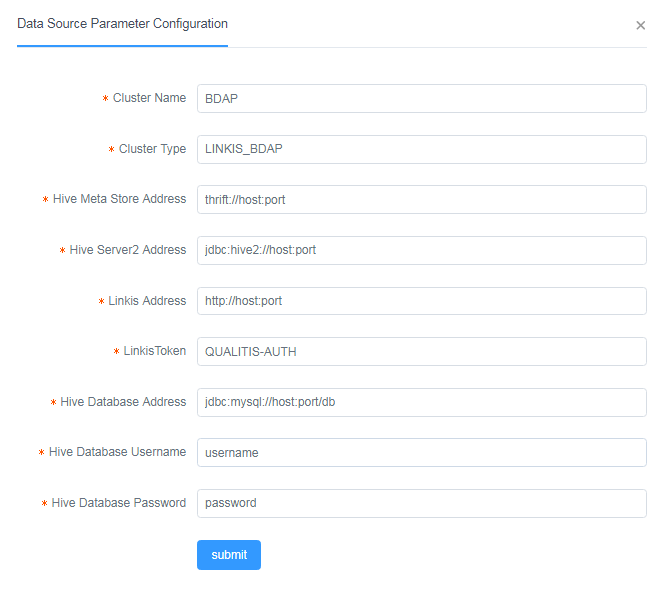
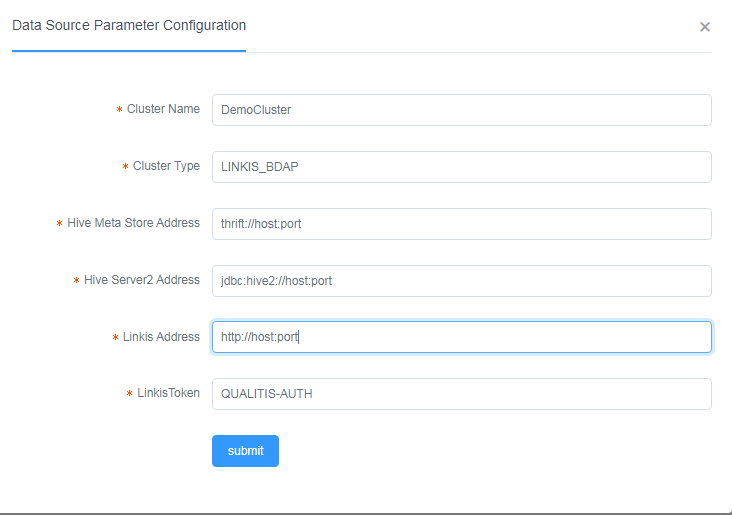
update document，add access function to linkis

diff --git a/docs/zh_CN/ch1/快速搭建手册.md b/docs/zh_CN/ch1/快速搭建手册.md
@@ -7,8 +7,8 @@ JDK (1.8.0_141)
 Hadoop (2.7.2)  
 Hive (1.2.1)   
 Zookeeper (3.4.9)  
-Linkis（0.9.0), 必装Spark引擎。[如何安装Linkis](https://github.com/WeBankFinTech/Linkis)  
-DataSphereStudio (0.5.0) 可选. 如果你想使用工作流，必装DataSphereStudio [如何安装DataSphereStudio?](https://github.com/WeBankFinTech/DataSphereStudio)  
+Linkis（0.9.1), 必装Spark引擎。[如何安装Linkis](https://github.com/WeBankFinTech/Linkis)  
+DataSphereStudio (0.6.0) 可选. 如果你想使用工作流，必装DataSphereStudio [如何安装DataSphereStudio?](https://github.com/WeBankFinTech/DataSphereStudio)  
 
 ## 二、安装包下载
 [下载](https://github.com/WeBankFinTech/Qualitis/releases)
@@ -83,10 +83,7 @@ sh bin/start.sh
 HiveMetaStore地址  
 HiveServer2地址  
 Linkis地址  
-Linkis Token  
-Hive数据库地址(用于连接HiveMetaStore的MySQL数据库)  
-Hive数据库用户名(用于连接HiveMetaStore的MySQL数据库)  
-Hive数据库密码(用于连接HiveMetaStore的MySQL数据库)  
+Linkis Token(Linkis Token配置方式请查看文档：[接入Linkis文档](接入Linkis文档.md))  
 
 可参考以下例子：
 ![](../../../images/zh_CN/ch1/规则配置样例.png)

diff --git a/docs/en_US/ch1/QuickDeploy.md b/docs/en_US/ch1/QuickDeploy.md
@@ -7,8 +7,8 @@ JDK (1.8.0_141)
 Hadoop (2.7.2)  
 Hive (1.2.1)   
 Zookeeper (3.4.9)  
-Linkis (0.9.0), Spark engine required.[How to install Linkis?](https://github.com/WeBankFinTech/Linkis)  
-DataSphereStudio (0.5.0) Optional. If you want to use workflow, it it required. [How to install DataSphereStudio?](https://github.com/WeBankFinTech/DataSphereStudio)  
+Linkis (0.9.1), Spark engine required.[How to install Linkis?](https://github.com/WeBankFinTech/Linkis)  
+DataSphereStudio (0.6.0) Optional. If you want to use workflow, it it required. [How to install DataSphereStudio?](https://github.com/WeBankFinTech/DataSphereStudio)  
 
 ## 2. Download
 [Download](https://github.com/WeBankFinTech/Qualitis/releases)
@@ -83,10 +83,7 @@ Cluster type
 HiveMetaStore address  
 HiveServer2 address  
 Linkis address  
-Linkis Token  
-Hive database address  
-Hive database username  
-Hive database password
+Linkis Token(How to get Linkis Token：[Linkis Access Guide](Linkis Access Guide.md))  
 
 Here is an example:  
 ![](../../../images/en_US/ch1/ClusterConfigurationDemo.png)

diff --git a/README.md b/README.md
@@ -3,7 +3,7 @@
 English | [中文](docs/zh_CN/ch1)  
 
 ## Overview
-Qualitis is a one-stop data quality management platform that supports quality verification, notification, and management for various datasource. It is used to solve various data quality problems caused by data processing.
+Qualitis is a data quality management platform that supports quality verification, notification, and management for various datasource. It is used to solve various data quality problems caused by data processing.
 
 Based on Spring Boot, Qualitis submits quality model task to [Linkis](https://github.com/WeBankFinTech/Linkis) platform. It provides functions such as data quality model construction, data quality model execution, data quality verification, reports of data quality generation and so on.
 

diff --git a/docs/en_US/ch1/Linkis Access Guide.md b/docs/en_US/ch1/Linkis Access Guide.md
@@ -1,0 +1,31 @@
+# How to get Linkis Token
+
+## Linkis Configuration
+### Add Linkis Token
+```
+cd $LINKIS_HOME/linkis-gateway/conf
+vim token.properties
+```
+
+Add line as follow:
+```
+QUALITIS-AUTH=*
+```
+
+### Modify Linkis Default Queue of User
+1. Login in DataSphere Studio using the user same as qualitis.
+
+2. Enter 'Linkis Console' -> Settings -> wds.linkis.yarnqueue, and then set a queue in yarn.
+
+### Add Lib of MySQL
+```
+cd $LINKIS_HOME/linkis-ujes-spark-enginemanager/lib
+```
+Add MySQL Lib in it.
+
+At last, restart Linkis.
+
+## Qualitis Configuration
+Type in 'QUALITIS-AUTH' in the blank of Linkis Token:  
+Here is an example：  
+![](../../../images/en_US/ch1/ClusterConfigurationDemo.png)

diff --git a/docs/zh_CN/ch1/接入Linkis文档.md b/docs/zh_CN/ch1/接入Linkis文档.md
@@ -1,0 +1,31 @@
+# 接入Linkis文档
+
+## Linkis配置
+### 增加Linkis Token
+```
+cd $LINKIS_HOME/linkis-gateway/conf
+vim token.properties
+```
+
+增加以下行：
+```
+QUALITIS-AUTH=*
+```
+
+### 修改用户默认提交队列
+1. 在DataSphere Studio中登录Qualitis同名的用户名
+
+2. 进入Linkis管理台 -> 设置 -> yarn队列名中，并设置一个可用的yarn队列
+
+### 加入MySQL依赖包
+```
+cd $LINKIS_HOME/linkis-ujes-spark-enginemanager/lib
+```
+并加入mysql依赖包
+
+最后，重启Linkis
+
+## Qualitis配置
+在Linkis Token中填入'QUALITIS-AUTH'  
+如下图所示：  
+![](../../../images/zh_CN/ch1/规则配置样例.png)

diff --git a/docs/zh_CN/ch1/升级指南.md b/docs/zh_CN/ch1/升级指南.md
@@ -1,0 +1,10 @@
+# 升级指南
+
+## 0.5.0 升级 0.6.0
+下载0.6.0版本代码，并解压。
+
+执行以下数据库脚本:
+   ```
+   mysql -u {USERNAME} -p {PASSWORD} -h {IP} --default-character-set=utf8
+   source conf/database/update/update_0.5.0-0.6.0.sql
+   ```

diff --git a/docs/en_US/ch1/UpdateGuide.md b/docs/en_US/ch1/UpdateGuide.md
@@ -1,0 +1,10 @@
+# Update Guide
+
+## update from 0.5.0 to 0.6.0
+Download code of 0.6.0 version.
+
+Execute the following code below:
+```
+mysql -u {USERNAME} -p {PASSWORD} -h {IP} --default-character-set=utf8
+source conf/database/update/update_0.5.0-0.6.0.sql
+```
